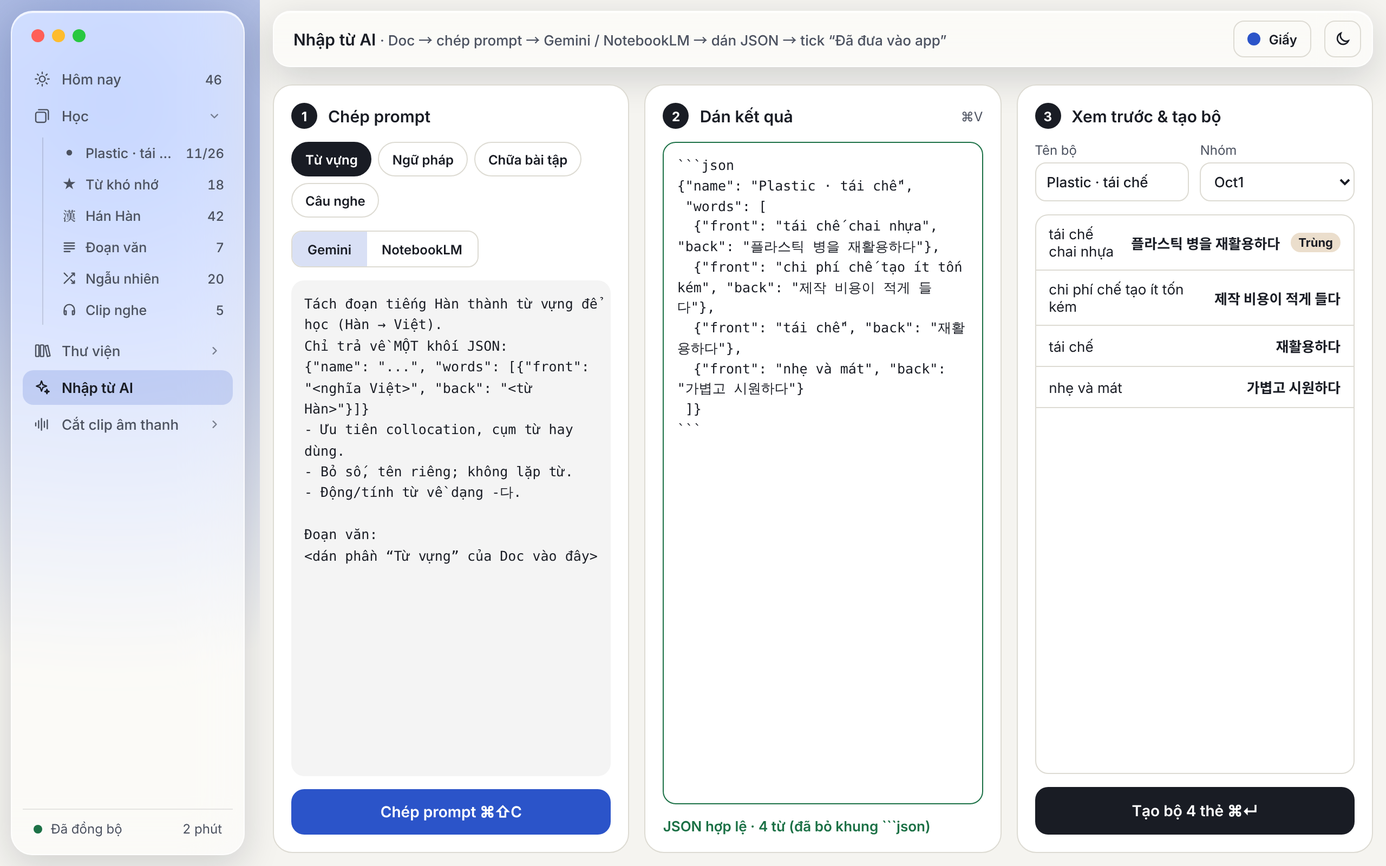
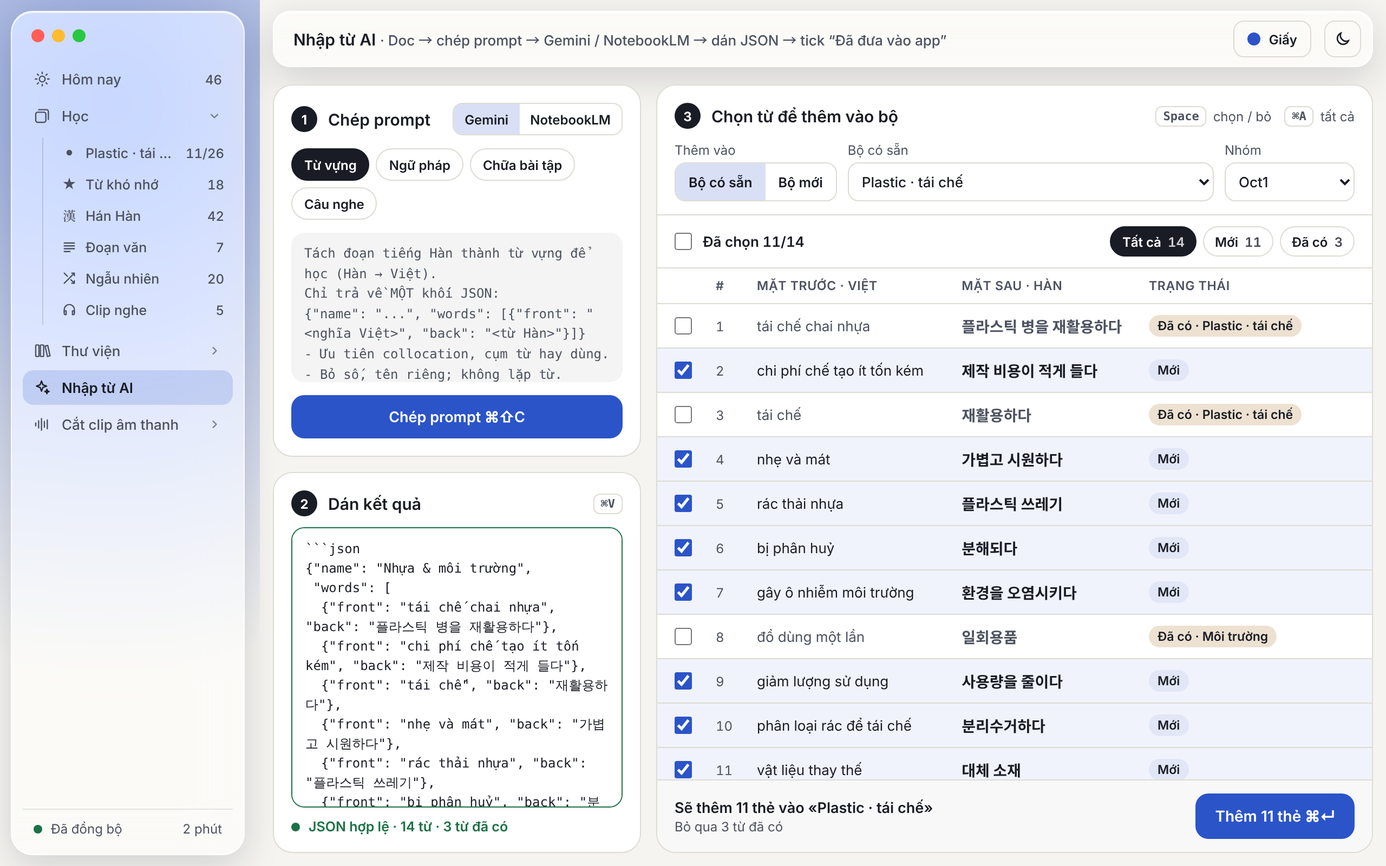
T2.39: cập nhật màn Nhập từ AI — tick chọn từ trước khi thêm vào bộ (#4)
Chụp lại Mac-Import (sáng/tối) + nguồn từ prototype mới; mô tả lại T2.39.

Claude-Session: https://claude.ai/code/session_01KeZ5oUxBK4cehoikW7uz6r

diff --git a/design/prototype/src/Mac-Import.dc.html b/design/prototype/src/Mac-Import.dc.html
@@ -29,6 +29,10 @@ button{cursor:pointer}
 .card{background:var(--sf);border:1px solid var(--line);border-radius:18px}
 .step{width:24px;height:24px;border-radius:99px;background:var(--ink);color:var(--sf);font-size:12px;font-weight:700;display:flex;align-items:center;justify-content:center}
 .kbd{font:600 11px ui-monospace,Menlo,monospace;padding:2px 6px;border-radius:6px;border:1px solid var(--line);color:var(--ink2)}
+.row{display:grid;grid-template-columns:28px 28px minmax(0,1.1fr) minmax(0,1fr) 190px;align-items:center;gap:10px;padding:0 16px;height:40px;border-bottom:1px solid var(--line);font-size:13px;cursor:pointer}
+.row.head{position:sticky;top:0;z-index:1;height:32px;background:var(--sf);cursor:default;font-size:11.5px;font-weight:600;color:var(--ink2);text-transform:uppercase;letter-spacing:.03em}
+.ck{width:16px;height:16px;margin:0;accent-color:var(--ac);cursor:pointer}
+.badge{display:inline-block;max-width:100%;box-sizing:border-box;padding:3px 8px;border-radius:999px;font-size:11.5px;font-weight:600;white-space:nowrap;overflow:hidden;text-overflow:ellipsis;vertical-align:middle}
 /* Chữ trong nút không bao giờ xuống dòng */
 button,.nav,.kbd,a[style*="height:"]{white-space:nowrap}
 button,a[style*="height:"]{flex-shrink:0}
@@ -62,47 +66,97 @@ button>span{min-width:0;overflow:hidden;text-overflow:ellipsis}
     <button onClick="{{toggleDark}}" aria-label="Sáng / tối" style="width: 34px; height: 34px; border-radius: 10px; border: 1px solid var(--line); background: transparent; color: var(--ink); display: flex; align-items: center; justify-content: center;"><svg width="16" height="16" viewBox="0 0 24 24" fill="none" stroke="currentColor" stroke-width="2" stroke-linecap="round" aria-hidden="true"><path d="M20 14.5A8 8 0 0 1 9.5 4a8 8 0 1 0 10.5 10.5z"></path></svg></button>
   </header>
 
-  <main style="position: absolute; left: 252px; right: 12px; top: 78px; bottom: 12px; display: grid; grid-template-columns: repeat(3, minmax(0, 1fr)); gap: 14px;">
-    <section class="card" style="padding: 16px; display: flex; flex-direction: column; gap: 12px; min-height: 0;">
-      <div style="display: flex; align-items: center; gap: 10px;"><span class="step">1</span><h2 style="margin: 0; font-size: 15px; font-weight: 600;">Chép prompt</h2></div>
-      <div role="group" aria-label="Loại nội dung" style="display: flex; flex-wrap: wrap; gap: 6px;">
-        <sc-for list="{{kinds}}" as="k" hint-placeholder-count="4">
-          <button onClick="{{k.pick}}" aria-pressed="{{k.on}}" style="height: 32px; padding: 0 12px; border-radius: 999px; border: 1px solid {{k.border}}; background: {{k.bg}}; color: {{k.ink}}; font: 600 12px Inter, sans-serif;">{{k.label}}</button>
-        </sc-for>
-      </div>
-      <div role="group" aria-label="Công cụ AI" style="display: flex; border: 1px solid var(--line); border-radius: 10px; overflow: hidden; align-self: flex-start;">
-        <sc-for list="{{tools}}" as="t" hint-placeholder-count="2">
-          <button onClick="{{t.pick}}" aria-pressed="{{t.on}}" style="height: 32px; padding: 0 14px; border: 0; background: {{t.bg}}; color: var(--ink); font: 600 12px Inter, sans-serif;">{{t.label}}</button>
-        </sc-for>
-      </div>
-      <div style="flex: 1; min-height: 0; overflow-y: auto; font-size: 12.5px; line-height: 1.55; background: color-mix(in srgb, var(--ink) 5%, var(--sf)); border-radius: 12px; padding: 12px; white-space: pre-line; font-family: ui-monospace, Menlo, monospace;">{{promptText}}</div>
-      <button onClick="{{copy}}" style="height: 42px; border-radius: 12px; border: 0; background: {{copyBg}}; color: var(--on); font: 600 14px Inter, sans-serif;">{{copyLabel}}</button>
-    </section>
+  <main style="position: absolute; left: 252px; right: 12px; top: 78px; bottom: 12px; display: grid; grid-template-columns: 340px minmax(0, 1fr); gap: 14px;">
+    <div style="display: flex; flex-direction: column; gap: 14px; min-height: 0;">
+      <section class="card" style="padding: 16px; display: flex; flex-direction: column; gap: 12px; flex: none;">
+        <div style="display: flex; align-items: center; gap: 10px;"><span class="step">1</span><h2 style="margin: 0; font-size: 15px; font-weight: 600;">Chép prompt</h2>
+          <div role="group" aria-label="Công cụ AI" style="margin-left: auto; display: flex; border: 1px solid var(--line); border-radius: 9px; overflow: hidden;">
+            <sc-for list="{{tools}}" as="t" hint-placeholder-count="2">
+              <button onClick="{{t.pick}}" aria-pressed="{{t.on}}" style="height: 28px; padding: 0 10px; border: 0; background: {{t.bg}}; color: var(--ink); font: 600 12px Inter, sans-serif;">{{t.label}}</button>
+            </sc-for>
+          </div>
+        </div>
+        <div role="group" aria-label="Loại nội dung" style="display: flex; flex-wrap: wrap; gap: 6px;">
+          <sc-for list="{{kinds}}" as="k" hint-placeholder-count="4">
+            <button onClick="{{k.pick}}" aria-pressed="{{k.on}}" style="height: 30px; padding: 0 11px; border-radius: 999px; border: 1px solid {{k.border}}; background: {{k.bg}}; color: {{k.ink}}; font: 600 12px Inter, sans-serif;">{{k.label}}</button>
+          </sc-for>
+        </div>
+        <div style="height: 118px; overflow-y: auto; font-size: 12px; line-height: 1.55; background: color-mix(in srgb, var(--ink) 5%, var(--sf)); border-radius: 12px; padding: 10px 12px; white-space: pre-line; font-family: ui-monospace, Menlo, monospace; color: var(--ink2);">{{promptText}}</div>
+        <button onClick="{{copy}}" style="height: 40px; border-radius: 12px; border: 0; background: {{copyBg}}; color: var(--on); font: 600 13.5px Inter, sans-serif;">{{copyLabel}}</button>
+      </section>
 
-    <section class="card" style="padding: 16px; display: flex; flex-direction: column; gap: 12px; min-height: 0;">
-      <div style="display: flex; align-items: center; gap: 10px;"><span class="step">2</span><h2 style="margin: 0; font-size: 15px; font-weight: 600;">Dán kết quả</h2><span style="margin-left: auto; font-size: 12px; color: var(--ink2);">⌘V</span></div>
-      <textarea spellcheck="false" aria-label="JSON từ AI" value="{{json}}" onChange="{{onJson}}" style="flex: 1; min-height: 0; box-sizing: border-box; border-radius: 12px; border: 1.5px solid {{jsonBorder}}; background: var(--sf); color: var(--ink); padding: 12px; font: 400 12.5px/1.5 ui-monospace, Menlo, monospace; resize: none;"></textarea>
-      <div style="font-size: 13px; font-weight: 600; color: {{jsonInk}};">{{jsonStatus}}</div>
-    </section>
+      <section class="card" style="padding: 16px; display: flex; flex-direction: column; gap: 10px; flex: 1; min-height: 0;">
+        <div style="display: flex; align-items: center; gap: 10px;"><span class="step">2</span><h2 style="margin: 0; font-size: 15px; font-weight: 600;">Dán kết quả</h2><span class="kbd" style="margin-left: auto;">⌘V</span></div>
+        <textarea spellcheck="false" aria-label="JSON từ AI" value="{{json}}" onChange="{{onJson}}" style="flex: 1; min-height: 0; box-sizing: border-box; border-radius: 12px; border: 1.5px solid {{jsonBorder}}; background: var(--sf); color: var(--ink); padding: 10px 12px; font: 400 12px/1.5 ui-monospace, Menlo, monospace; resize: none;"></textarea>
+        <div style="display: flex; align-items: center; gap: 8px; font-size: 12.5px; font-weight: 600; color: {{jsonInk}};"><span style="width: 8px; height: 8px; border-radius: 99px; background: {{jsonInk}}; flex: none;"></span>{{jsonStatus}}</div>
+      </section>
+    </div>
 
-    <section class="card" style="padding: 16px; display: flex; flex-direction: column; gap: 12px; min-height: 0;">
-      <div style="display: flex; align-items: center; gap: 10px;"><span class="step">3</span><h2 style="margin: 0; font-size: 15px; font-weight: 600;">Xem trước &amp; tạo bộ</h2></div>
-      <div style="display: grid; grid-template-columns: repeat(2, minmax(0, 1fr)); gap: 10px;">
-        <label style="display: flex; flex-direction: column; gap: 4px; font-size: 12px; color: var(--ink2);">Tên bộ
-          <input value="{{deckName}}" readonly style="height: 36px; box-sizing: border-box; border-radius: 10px; border: 1px solid var(--line); background: var(--sf); color: var(--ink); padding: 0 10px; font: 500 13px Inter, sans-serif;"></label>
-        <label style="display: flex; flex-direction: column; gap: 4px; font-size: 12px; color: var(--ink2);">Nhóm
-          <select style="height: 36px; border-radius: 10px; border: 1px solid var(--line); background: var(--sf); color: var(--ink); padding: 0 8px; font: 500 13px Inter, sans-serif;"><option>Oct1</option><option>Sep3</option></select></label>
+    <section class="card" style="display: flex; flex-direction: column; min-height: 0; overflow: hidden;">
+      <div style="padding: 16px 16px 12px; display: flex; flex-direction: column; gap: 12px; border-bottom: 1px solid var(--line);">
+        <div style="display: flex; align-items: center; gap: 10px;"><span class="step">3</span><h2 style="margin: 0; font-size: 15px; font-weight: 600;">Chọn từ để thêm vào bộ</h2>
+          <span style="margin-left: auto; display: flex; align-items: center; gap: 6px; font-size: 12px; color: var(--ink2);"><span class="kbd">Space</span>chọn / bỏ<span class="kbd" style="margin-left: 6px;">⌘A</span>tất cả</span>
+        </div>
+        <div style="display: flex; align-items: flex-end; gap: 10px;">
+          <div style="display: flex; flex-direction: column; gap: 4px;">
+            <span style="font-size: 12px; color: var(--ink2);">Thêm vào</span>
+            <div role="group" aria-label="Đích" style="display: flex; border: 1px solid var(--line); border-radius: 10px; overflow: hidden;">
+              <sc-for list="{{targets}}" as="g" hint-placeholder-count="2">
+                <button onClick="{{g.pick}}" aria-pressed="{{g.on}}" style="height: 34px; padding: 0 12px; border: 0; background: {{g.bg}}; color: var(--ink); font: 600 12.5px Inter, sans-serif;">{{g.label}}</button>
+              </sc-for>
+            </div>
+          </div>
+          <sc-if value="{{isNew}}" hint-placeholder-val="{{true}}">
+            <label style="flex: 1; min-width: 0; display: flex; flex-direction: column; gap: 4px; font-size: 12px; color: var(--ink2);">Tên bộ mới
+              <input value="{{deckName}}" onChange="{{onDeckName}}" style="height: 36px; box-sizing: border-box; border-radius: 10px; border: 1px solid var(--line); background: var(--sf); color: var(--ink); padding: 0 10px; font: 500 13px Inter, sans-serif;"></label>
+          </sc-if>
+          <sc-if value="{{isExisting}}" hint-placeholder-val="{{false}}">
+            <label style="flex: 1; min-width: 0; display: flex; flex-direction: column; gap: 4px; font-size: 12px; color: var(--ink2);">Bộ có sẵn
+              <select value="{{existing}}" onChange="{{onExisting}}" style="height: 36px; border-radius: 10px; border: 1px solid var(--line); background: var(--sf); color: var(--ink); padding: 0 8px; font: 500 13px Inter, sans-serif;"><option>Plastic · tái chế</option><option>Môi trường</option><option>Hán Hàn</option></select></label>
+          </sc-if>
+          <label style="width: 120px; display: flex; flex-direction: column; gap: 4px; font-size: 12px; color: var(--ink2);">Nhóm
+            <select style="height: 36px; border-radius: 10px; border: 1px solid var(--line); background: var(--sf); color: var(--ink); padding: 0 8px; font: 500 13px Inter, sans-serif;"><option>Oct1</option><option>Sep3</option></select></label>
+        </div>
       </div>
-      <ul style="list-style: none; margin: 0; padding: 0; border: 1px solid var(--line); border-radius: 12px; overflow-y: auto; flex: 1; min-height: 0;">
-        <sc-for list="{{preview}}" as="p" hint-placeholder-count="4">
-          <li style="display: flex; align-items: center; gap: 10px; padding: 9px 12px; border-bottom: 1px solid var(--line); font-size: 13px;">
-            <span style="flex: 1; min-width: 0;">{{p.front}}</span>
-            <span style="font-family: 'Noto Sans KR', sans-serif; font-weight: 600;">{{p.back}}</span>
-            <sc-if value="{{p.dup}}" hint-placeholder-val="{{false}}"><span style="padding: 2px 7px; border-radius: 999px; background: color-mix(in srgb, var(--flag) 20%, var(--sf)); font-size: 11px; font-weight: 700;">Trùng</span></sc-if>
-          </li>
+
+      <div style="display: flex; align-items: center; gap: 12px; padding: 10px 16px; border-bottom: 1px solid var(--line);">
+        <label style="display: flex; align-items: center; gap: 10px; font-size: 13px; font-weight: 600; cursor: pointer;">
+          <input type="checkbox" class="ck" checked="{{allOn}}" onChange="{{toggleAll}}" aria-label="Chọn tất cả từ đang hiện">
+          <span>Đã chọn <span style="font-variant-numeric: tabular-nums;">{{nSel}}/{{nAll}}</span></span>
+        </label>
+        <div role="group" aria-label="Lọc" style="margin-left: auto; display: flex; gap: 6px;">
+          <sc-for list="{{filters}}" as="f" hint-placeholder-count="3">
+            <button onClick="{{f.pick}}" aria-pressed="{{f.on}}" style="height: 28px; padding: 0 10px; border-radius: 999px; border: 1px solid {{f.border}}; background: {{f.bg}}; color: {{f.ink}}; font: 600 12px Inter, sans-serif; display: flex; align-items: center; gap: 6px;">{{f.label}}<span style="font-variant-numeric: tabular-nums; opacity: .8;">{{f.n}}</span></button>
+          </sc-for>
+        </div>
+      </div>
+
+      <div style="flex: 1; min-height: 0; overflow-y: auto;">
+        <div class="row head"><span></span><span>#</span><span>Mặt trước · Việt</span><span>Mặt sau · Hàn</span><span>Trạng thái</span></div>
+        <sc-for list="{{rows}}" as="p" hint-placeholder-count="8">
+          <label class="row" style="background: {{p.bg}};">
+            <input type="checkbox" class="ck" checked="{{p.checked}}" onChange="{{p.toggle}}" aria-label="Chọn {{p.back}}">
+            <span style="font-size: 12px; color: var(--ink2); font-variant-numeric: tabular-nums;">{{p.num}}</span>
+            <span style="min-width: 0; overflow: hidden; text-overflow: ellipsis; white-space: nowrap; color: {{p.ink}};">{{p.front}}</span>
+            <span style="min-width: 0; overflow: hidden; text-overflow: ellipsis; white-space: nowrap; font-family: 'Noto Sans KR', sans-serif; font-weight: 600; font-size: 14px; color: {{p.ink}};">{{p.back}}</span>
+            <span style="min-width: 0;">
+              <sc-if value="{{p.isDup}}" hint-placeholder-val="{{false}}"><span class="badge" style="background: color-mix(in srgb, var(--flag) 18%, var(--sf)); color: var(--ink);">Đã có · {{p.dupIn}}</span></sc-if>
+              <sc-if value="{{p.isNew}}" hint-placeholder-val="{{true}}"><span class="badge" style="background: color-mix(in srgb, var(--ac) 14%, var(--sf)); color: var(--ink);">Mới</span></sc-if>
+            </span>
+          </label>
         </sc-for>
-      </ul>
-      <button onClick="{{create}}" style="height: 44px; border-radius: 12px; border: 0; background: {{createBg}}; color: {{createInk}}; font: 600 14px Inter, sans-serif;">{{createLabel}}</button>
+        <sc-if value="{{empty}}" hint-placeholder-val="{{false}}">
+          <div style="padding: 48px 16px; text-align: center; font-size: 13px; color: var(--ink2);">{{emptyText}}</div>
+        </sc-if>
+      </div>
+
+      <div style="display: flex; align-items: center; gap: 14px; padding: 12px 16px; border-top: 1px solid var(--line); background: color-mix(in srgb, var(--ink) 3%, var(--sf));">
+        <div style="flex: 1; min-width: 0; display: flex; flex-direction: column; gap: 2px;">
+          <div style="font-size: 13.5px; font-weight: 600; white-space: nowrap; overflow: hidden; text-overflow: ellipsis;">{{summary}}</div>
+          <div style="font-size: 12px; color: var(--ink2); white-space: nowrap; overflow: hidden; text-overflow: ellipsis;">{{summary2}}</div>
+        </div>
+        <button onClick="{{create}}" style="height: 42px; padding: 0 18px; border-radius: 12px; border: 0; background: {{createBg}}; color: {{createInk}}; font: 600 14px Inter, sans-serif;">{{createLabel}}</button>
+      </div>
     </section>
   </main>
 </div>
@@ -112,7 +166,8 @@ class Component extends DCLogic {
   constructor(props) {
     super(props);
     this.state = { theme: 'paper', dark: false, kind: 'vocab', tool: 'gemini', copied: false, created: false,
-      json: '```json\n{"name": "Plastic · tái chế",\n "words": [\n  {"front": "tái chế chai nhựa", "back": "플라스틱 병을 재활용하다"},\n  {"front": "chi phí chế tạo ít tốn kém", "back": "제작 비용이 적게 들다"},\n  {"front": "tái chế", "back": "재활용하다"},\n  {"front": "nhẹ và mát", "back": "가볍고 시원하다"}\n ]}\n```' };
+      target: 'existing', existing: 'Plastic · tái chế', deckName: null, filter: 'all', sel: {},
+      json: '```json\n{"name": "Nhựa & môi trường",\n "words": [\n  {"front": "tái chế chai nhựa", "back": "플라스틱 병을 재활용하다"},\n  {"front": "chi phí chế tạo ít tốn kém", "back": "제작 비용이 적게 들다"},\n  {"front": "tái chế", "back": "재활용하다"},\n  {"front": "nhẹ và mát", "back": "가볍고 시원하다"},\n  {"front": "rác thải nhựa", "back": "플라스틱 쓰레기"},\n  {"front": "bị phân huỷ", "back": "분해되다"},\n  {"front": "gây ô nhiễm môi trường", "back": "환경을 오염시키다"},\n  {"front": "đồ dùng một lần", "back": "일회용품"},\n  {"front": "giảm lượng sử dụng", "back": "사용량을 줄이다"},\n  {"front": "phân loại rác để tái chế", "back": "분리수거하다"},\n  {"front": "vật liệu thay thế", "back": "대체 소재"},\n  {"front": "thân thiện với môi trường", "back": "친환경적이다"},\n  {"front": "ống hút giấy", "back": "종이 빨대"},\n  {"front": "bền, chắc chắn", "back": "튼튼하다"}\n ]}\n```' };
     this.TH = {
       paper: ['Giấy', { bg: '#F5F4F0', sf: '#FFFFFF', ink: '#191C24', ink2: '#4C5260', ac: '#2B54C9', line: '#DDDBD3', on: '#FFFFFF' }, { bg: '#121418', sf: '#1B1E24', ink: '#ECEEF2', ink2: '#A9AFBC', ac: '#7C9BFF', line: '#343946', on: '#0B1020' }],
       ink: ['Mực đêm', { bg: '#EEF0F6', sf: '#FFFFFF', ink: '#141826', ink2: '#4A5068', ac: '#5B4BD6', line: '#D7DAE6', on: '#FFFFFF' }, { bg: '#0E1020', sf: '#171A2E', ink: '#E8E9F5', ink2: '#A3A7C4', ac: '#A99BFF', line: '#2B2F4A', on: '#120E2A' }],
@@ -144,27 +199,59 @@ class Component extends DCLogic {
       listen: 'Từ phần chép lời dưới đây, mỗi câu khó nghe một thẻ:\nfront = nghĩa Việt, back = câu Hàn nguyên văn,\nhint = 2 âm tiết đầu. typeAnswer: false.'
     }[s.kind];
     const r = this.parse(s.json);
-    const known = new Set(['플라스틱 병을 재활용하다']);
-    const n = r.words.length;
+    // Từ đã có trong thư viện (Hàn → bộ chứa nó). Trùng mặc định KHÔNG tick.
+    const known = { '플라스틱 병을 재활용하다': 'Plastic · tái chế', '재활용하다': 'Plastic · tái chế', '일회용품': 'Môi trường' };
+    const all = r.words.map((w, i) => {
+      const key = w.back.trim(); const dupIn = known[key] || '';
+      const checked = s.sel[key] !== undefined ? s.sel[key] : !dupIn;
+      return { i, key, front: w.front, back: w.back, dupIn, checked };
+    });
+    const nAll = all.length, nSel = all.filter(x => x.checked).length, nDup = all.filter(x => x.dupIn).length;
+    const shown = all.filter(x => s.filter === 'all' || (s.filter === 'new' ? !x.dupIn : !!x.dupIn));
+    const allOn = shown.length > 0 && shown.every(x => x.checked);
+    const isNew = s.target === 'new';
+    const deckName = s.deckName !== null ? s.deckName : (r.name || 'Bộ mới');
+    const targetName = isNew ? deckName : s.existing;
+    const nSkipDup = all.filter(x => x.dupIn && !x.checked).length;
+    const nSkipOther = all.filter(x => !x.dupIn && !x.checked).length;
+    const ready = nSel > 0 && !r.error;
+    const pill = (on) => ({ bg: on ? t.ink : 'transparent', ink: on ? t.sf : t.ink, border: on ? t.ink : t.line });
+    const seg = (on) => on ? `color-mix(in srgb, ${t.ac} 18%, ${t.sf})` : 'transparent';
     return {
       vars: `--bg:${t.bg};--sf:${t.sf};--ink:${t.ink};--ink2:${t.ink2};--ac:${t.ac};--line:${t.line};--on:${t.on};--ok:${t.ok};--bad:${t.bad};--flag:${t.flag};--glass:${t.glass};--gb:${t.gb};--sh:${t.sh}`,
       themeName: this.TH[s.theme][0],
       nextTheme: () => go({ theme: keys[(keys.indexOf(s.theme) + 1) % keys.length] }),
       toggleDark: () => go({ dark: !s.dark }),
-      kinds: kinds.map(([k, label]) => ({ label, on: String(s.kind === k), bg: s.kind === k ? t.ink : 'transparent', ink: s.kind === k ? t.sf : t.ink, border: s.kind === k ? t.ink : t.line, pick: () => go({ kind: k, copied: false }) })),
-      tools: [['gemini', 'Gemini'], ['nlm', 'NotebookLM']].map(([k, label]) => ({ label, on: String(s.tool === k), bg: s.tool === k ? `color-mix(in srgb, ${t.ac} 18%, ${t.sf})` : 'transparent', pick: () => go({ tool: k, copied: false }) })),
+      kinds: kinds.map(([k, label]) => Object.assign({ label, on: String(s.kind === k), pick: () => go({ kind: k, copied: false }) }, pill(s.kind === k))),
+      tools: [['gemini', 'Gemini'], ['nlm', 'NotebookLM']].map(([k, label]) => ({ label, on: String(s.tool === k), bg: seg(s.tool === k), pick: () => go({ tool: k, copied: false }) })),
       promptText: body + '\n\n' + src,
       copy: () => go({ copied: true }),
       copyLabel: s.copied ? 'Đã chép — dán vào ' + (s.tool === 'nlm' ? 'NotebookLM' : 'Gemini') : 'Chép prompt  ⌘⇧C',
       copyBg: s.copied ? t.ok : t.ac,
-      json: s.json, onJson: (e) => go({ json: e.target.value, created: false }),
+      json: s.json, onJson: (e) => go({ json: e.target.value, created: false, sel: {} }),
       jsonBorder: r.error ? t.bad : t.ok, jsonInk: r.error ? t.bad : t.ok,
-      jsonStatus: r.error ? r.error : 'JSON hợp lệ · ' + n + ' từ (đã bỏ khung ```json)',
-      deckName: r.name || 'Bộ mới',
-      preview: r.words.slice(0, 12).map(w => ({ front: w.front, back: w.back, dup: known.has(w.back.trim()) })),
-      create: () => { if (n && !r.error) go({ created: true }); },
-      createLabel: s.created ? 'Đã tạo · đang đồng bộ sang iPhone' : (n && !r.error ? 'Tạo bộ ' + n + ' thẻ  ⌘↵' : 'Chưa tạo được'),
-      createBg: s.created ? t.ok : (n && !r.error ? t.ink : t.line), createInk: s.created ? t.sf : (n && !r.error ? t.sf : t.ink2)
+      jsonStatus: r.error ? r.error : 'JSON hợp lệ · ' + nAll + ' từ · ' + nDup + ' từ đã có',
+      targets: [['existing', 'Bộ có sẵn'], ['new', 'Bộ mới']].map(([k, label]) => ({ label, on: String(s.target === k), bg: seg(s.target === k), pick: () => go({ target: k, created: false }) })),
+      isNew, isExisting: !isNew,
+      deckName, onDeckName: (e) => go({ deckName: e.target.value, created: false }),
+      existing: s.existing, onExisting: (e) => go({ existing: e.target.value, created: false }),
+      filters: [['all', 'Tất cả', nAll], ['new', 'Mới', nAll - nDup], ['dup', 'Đã có', nDup]].map(([k, label, n]) => Object.assign({ label, n: String(n), on: String(s.filter === k), pick: () => go({ filter: k }) }, pill(s.filter === k))),
+      allOn, nSel: String(nSel), nAll: String(nAll),
+      toggleAll: () => { const sel = Object.assign({}, s.sel); shown.forEach(x => { sel[x.key] = !allOn; }); go({ sel, created: false }); },
+      rows: shown.map(x => ({
+        num: String(x.i + 1), front: x.front, back: x.back, checked: x.checked,
+        isDup: !!x.dupIn, isNew: !x.dupIn, dupIn: x.dupIn,
+        bg: x.checked ? `color-mix(in srgb, ${t.ac} 7%, ${t.sf})` : 'transparent',
+        ink: x.checked ? t.ink : t.ink2,
+        toggle: () => go({ sel: Object.assign({}, s.sel, { [x.key]: !x.checked }), created: false })
+      })),
+      empty: shown.length === 0,
+      emptyText: r.error ? 'Dán JSON hợp lệ ở bước 2 để xem trước các từ.' : 'Không có từ nào trong bộ lọc này.',
+      summary: s.created ? 'Đã thêm ' + nSel + ' thẻ vào «' + targetName + '»' : (nSel ? 'Sẽ thêm ' + nSel + ' thẻ vào «' + targetName + '»' : 'Chưa chọn từ nào'),
+      summary2: s.created ? 'Nhớ tick “Đã đưa vào app” trong Doc · đang đồng bộ sang iPhone' : 'Bỏ qua ' + nSkipDup + ' từ đã có' + (nSkipOther ? ' · ' + nSkipOther + ' từ bỏ tick' : '') + (isNew ? ' · tạo bộ mới' : ''),
+      create: () => { if (ready) go({ created: true }); },
+      createLabel: s.created ? 'Đã thêm ✓' : (ready ? 'Thêm ' + nSel + ' thẻ  ⌘↵' : 'Thêm thẻ'),
+      createBg: s.created ? t.ok : (ready ? t.ac : t.line), createInk: s.created ? t.sf : (ready ? t.on : t.ink2)
     };
   }
 }

diff --git a/docs/tasks.md b/docs/tasks.md
@@ -275,8 +275,16 @@ Ký hiệu đường dẫn: `HC/` = `apple/Packages/HanCore/`, `DS/` = `apple/Pa
   tên/loại/nguồn/mô tả bộ; cần mạng, offline báo lỗi không mất chữ đang sửa.
   - Trạng thái: code xong (`LibraryView` + `AppModel.updateCard/addCard/deleteCard/updateDeck`, ghi qua `ContentAPI` đã có test) — còn thử tay (chưa tick). Server chưa có route xoá bộ nên chỉ xoá được thẻ.
   - Phụ thuộc: T2.32
-- [ ] **T2.39 · Màn Nhập từ AI** — theo artboard: chọn loại + công cụ → `⌘⇧C` chép `Prompts.text`; dán JSON
-  → `DeckImport` báo lỗi trực tiếp; xem trước + "Trùng"; chọn nhóm; `⌘↵` tạo bộ (`POST /decks`).
+- [ ] **T2.39 · Màn Nhập từ AI** — theo artboard (thiết kế lại, issue #4): trái 340 pt = bước 1 chọn loại +
+  công cụ → `⌘⇧C` chép `Prompts.text` + bước 2 dán JSON → `DeckImport` báo lỗi trực tiếp; phải = bước 3.
+  - Đọc trước: `design/prototype/screens/Mac-Import-{light,dark}.png`, `design/prototype/src/Mac-Import.dc.html`
+  - Đích: "Bộ có sẵn" (chọn bộ) / "Bộ mới" (tên mặc định = `name` trong JSON) + chọn nhóm.
+  - Bảng xem trước **có ô tick từng từ**: # · trước · sau · "Mới"/"Đã có · ‹bộ›". Bấm cả dòng để tick.
+    Từ trùng (`duplicatesOf`, so qua `AnswerMatcher`, toàn thư viện) **mặc định bỏ tick**. Ô "Đã chọn x/y"
+    chọn/bỏ tất cả từ đang hiện; lọc Tất cả / Mới / Đã có. Sửa JSON → lựa chọn về mặc định.
+  - Phím: `Space` tick dòng focus, `⌘A` chọn tất cả, `⌘↵` thêm (tắt khi 0 từ được chọn).
+  - Chỉ gửi từ đã tick: bộ mới `POST /decks`, bộ có sẵn `POST /decks/:id/cards`. Xong → nhắc tick
+    "Đã đưa vào app" trong Doc. Logic chọn (mặc định, đếm, lọc) để trong `HanCore` + test.
   - Xong khi: 👤 chạy trọn quy trình `docs/drive-setup.md` §3 với một bài thật.
   - Trạng thái: code xong (`ImportView`, `AppModel.createDeck`; parse/prompt dùng HanCore đã có test) — còn bước 👤 (chưa tick).
   - Phụ thuộc: T2.38
